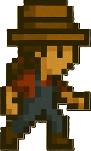
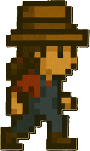
Femme marche mieux

diff --git a/main_test.py b/main_test.py
@@ -138,7 +138,8 @@ boss_attack_ground_left = pygame.transform.flip(boss_attack_ground, True, False)
 femme_walk_images = [
     pygame.image.load("data/femme_marche1.png").convert_alpha(),
     pygame.image.load("data/femme_marche2.png").convert_alpha(),
-    pygame.image.load("data/femme_marche3.png").convert_alpha()
+    pygame.image.load("data/femme_marche3.png").convert_alpha(),
+    pygame.image.load("data/femme_marche4.png").convert_alpha()
 ]
 femme_walk_images_left = [pygame.transform.flip(img, True, False) for img in femme_walk_images]
 
